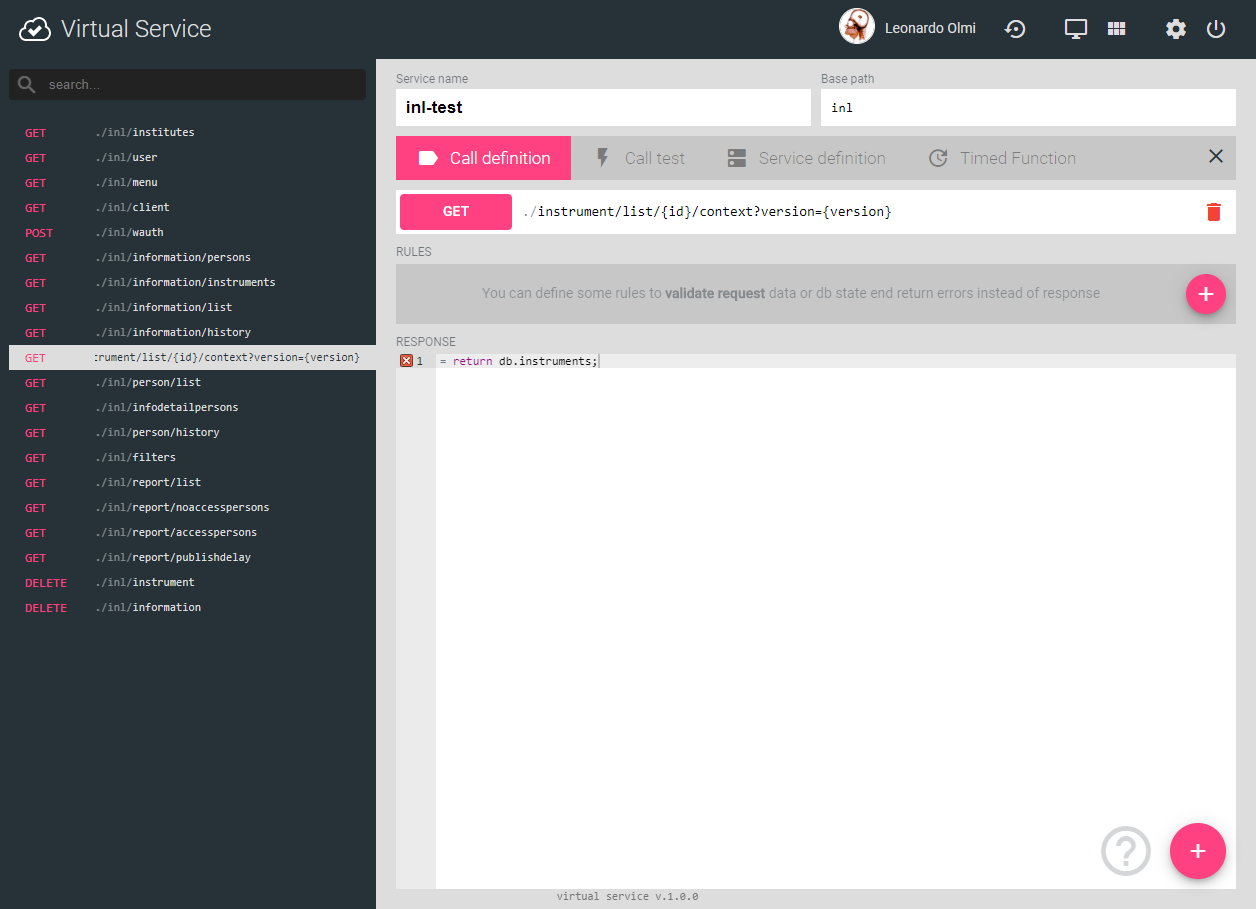
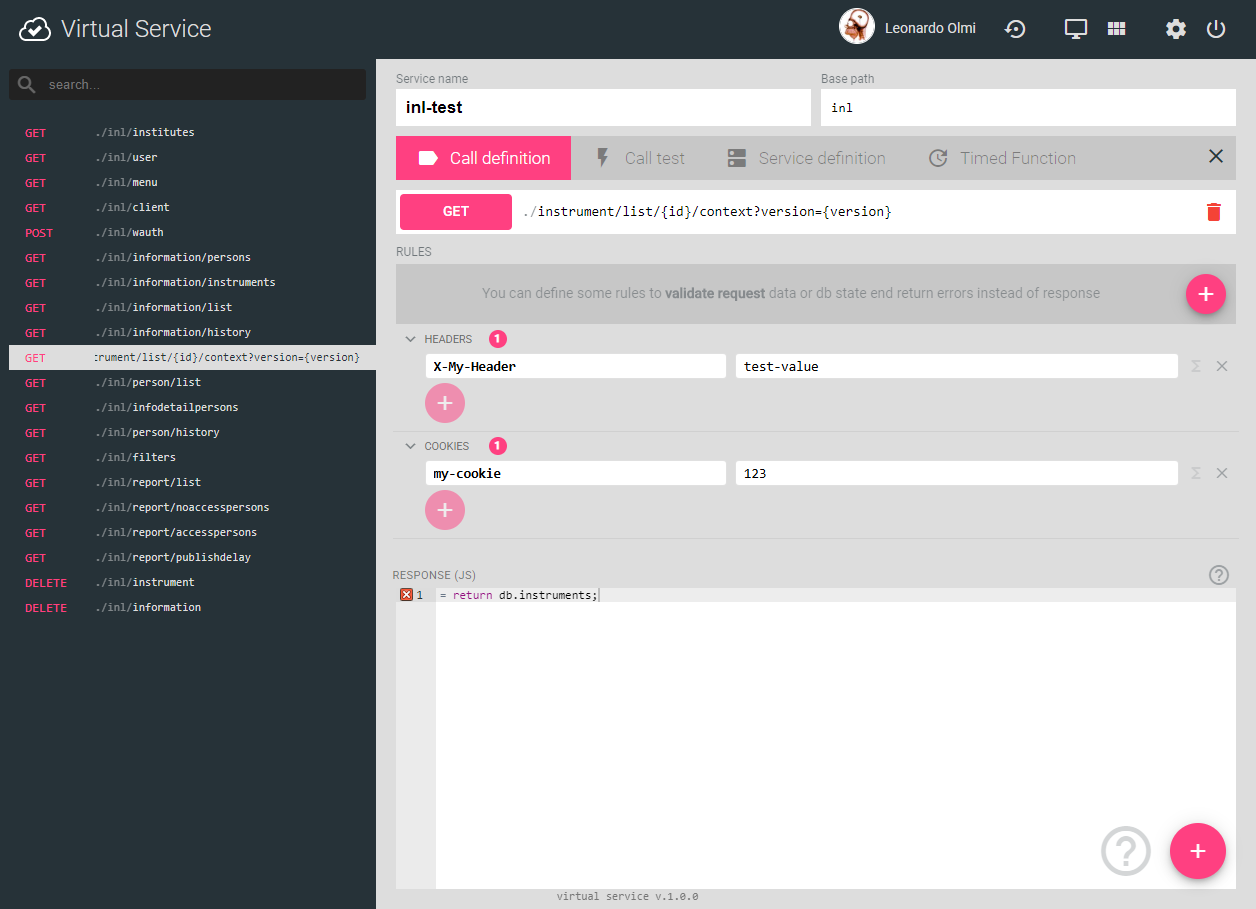
help & layout

Changed region(s): [[0.3105, 0.3696, 0.9936, 0.6777]]

diff --git a/apps/frontend/src/app/help/help.component.html b/apps/frontend/src/app/help/help.component.html
@@ -147,6 +147,43 @@
         <em>Call rules</em>
         <p>If you want to throw errors instead of returning a response, define one rule for each error scenario you want to handle.</p>
 
+        <!-- HEADERS & COOKIES -->
+        <em>Response headers &amp; cookies</em>
+        <p>The <b>HEADERS</b> and <b>COOKIES</b> collapsible sections let you attach additional
+          response headers and cookies to the call. Each entry is a <em>key / value</em> pair.</p>
+
+        <div class="help-icon-row">
+          <button mat-mini-fab color="accent"><mat-icon>add</mat-icon></button>
+          <p>Add a new header / cookie entry.</p>
+        </div>
+        <div class="help-icon-row">
+          <mat-icon>close</mat-icon>
+          <p>Remove the entry.</p>
+        </div>
+
+        <em>Static values vs expressions</em>
+        <p>By default the value is taken as a literal string. To compute the value dynamically,
+          prefix it with an equals sign <code>=</code> (Excel-style convention): everything after the
+          <code>=</code> is evaluated as a JavaScript expression when the call is served.</p>
+        <ul>
+          <li><code>application/json</code> — literal value</li>
+          <li><code>=new Date().toISOString()</code> — evaluated expression</li>
+          <li><code>=`Bearer $&#123;headers.authorization&#125;`</code> — uses the request scope</li>
+        </ul>
+
+        <div class="help-icon-row">
+          <mat-icon>functions</mat-icon>
+          <p>The <b>fx</b> icon next to the value input activates only when the value starts with
+            <code>=</code>. Click it to open a full expression editor with syntax highlighting and
+            contextual help.</p>
+        </div>
+
+        <p class="highlight">Expressions share the same execution context as the call response:
+          see <a (click)="goTo('expression-editor')">Expression editor</a> for the full list of
+          available objects (<code>db</code>, <code>pathValue</code>, <code>params</code>,
+          <code>data</code>, <code>headers</code>, <code>cookies</code>, <code>_</code>).
+          If the expression fails the header/cookie is skipped.</p>
+
         <em>Call response</em>
         <p>The <b>RESPONSE</b> is written as a JavaScript expression whose return value is sent to the client.</p>
         <p class="highlight">For details on the expression editor see the section

diff --git a/apps/frontend/src/app/monitor/monitor.component.scss b/apps/frontend/src/app/monitor/monitor.component.scss
@@ -14,8 +14,8 @@
   flex-shrink: 0;
   padding: 0 4px 0 16px;
   height: 52px;
-  border-bottom: 1px solid var(--vs-light);
-  background-color: var(--vs-dark);
+  //border-bottom: 1px solid var(--vs-light);
+  //background-color: var(--vs-dark);
   gap: 16px;
 
   .service-name {
@@ -25,7 +25,7 @@
     white-space: nowrap;
     overflow: hidden;
     text-overflow: ellipsis;
-    color: var(--vs-white);
+    //color: var(--vs-white);
   }
 
   .search-box {

diff --git a/apps/frontend/src/app/help/help.component.ts b/apps/frontend/src/app/help/help.component.ts
@@ -16,6 +16,7 @@ const SECTION_IDS = [
   'services',
   'editor',
   'editor-call',
+  'editor-headers',
   'editor-test',
   'editor-database',
   'timed-function',
